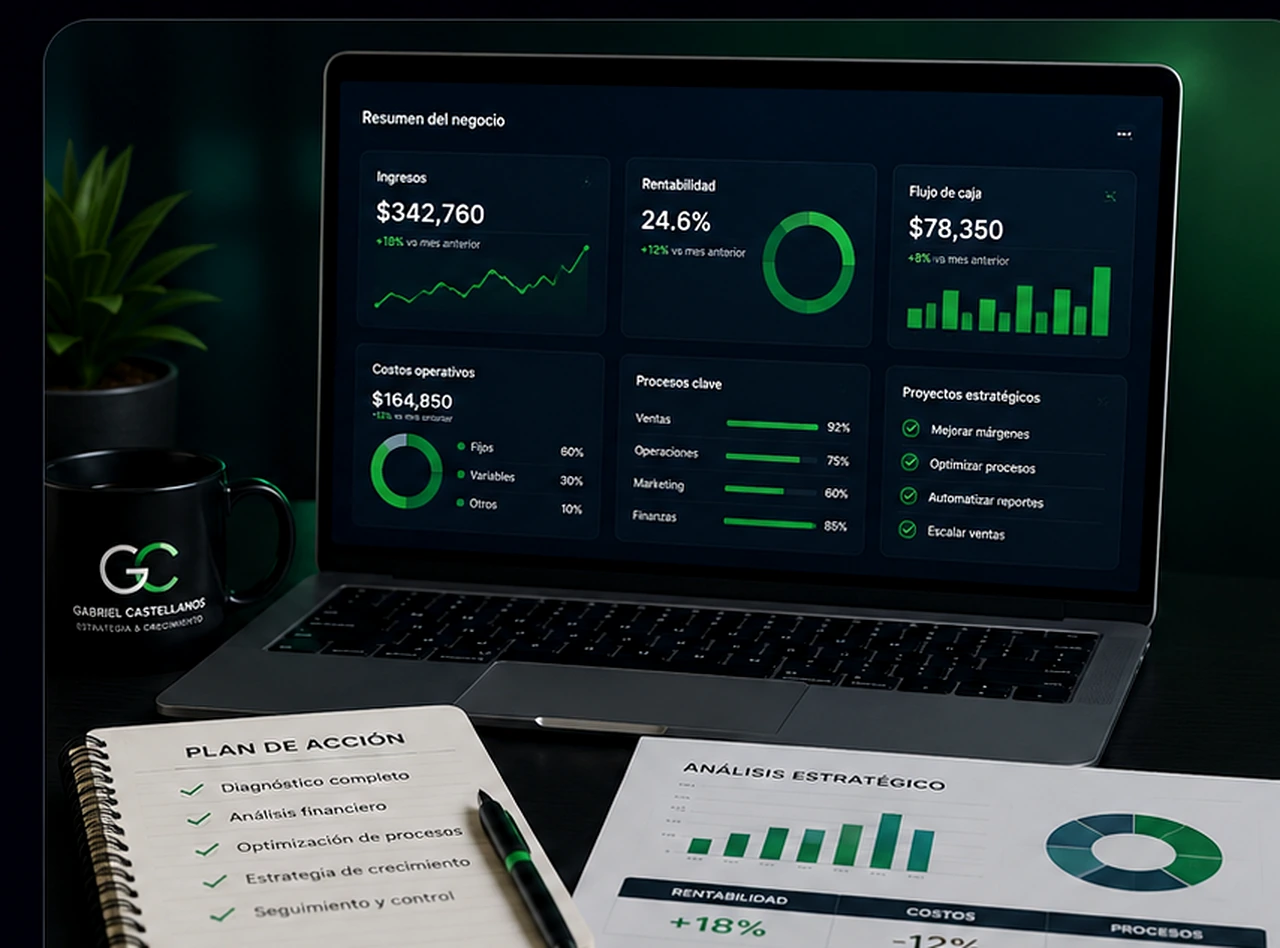
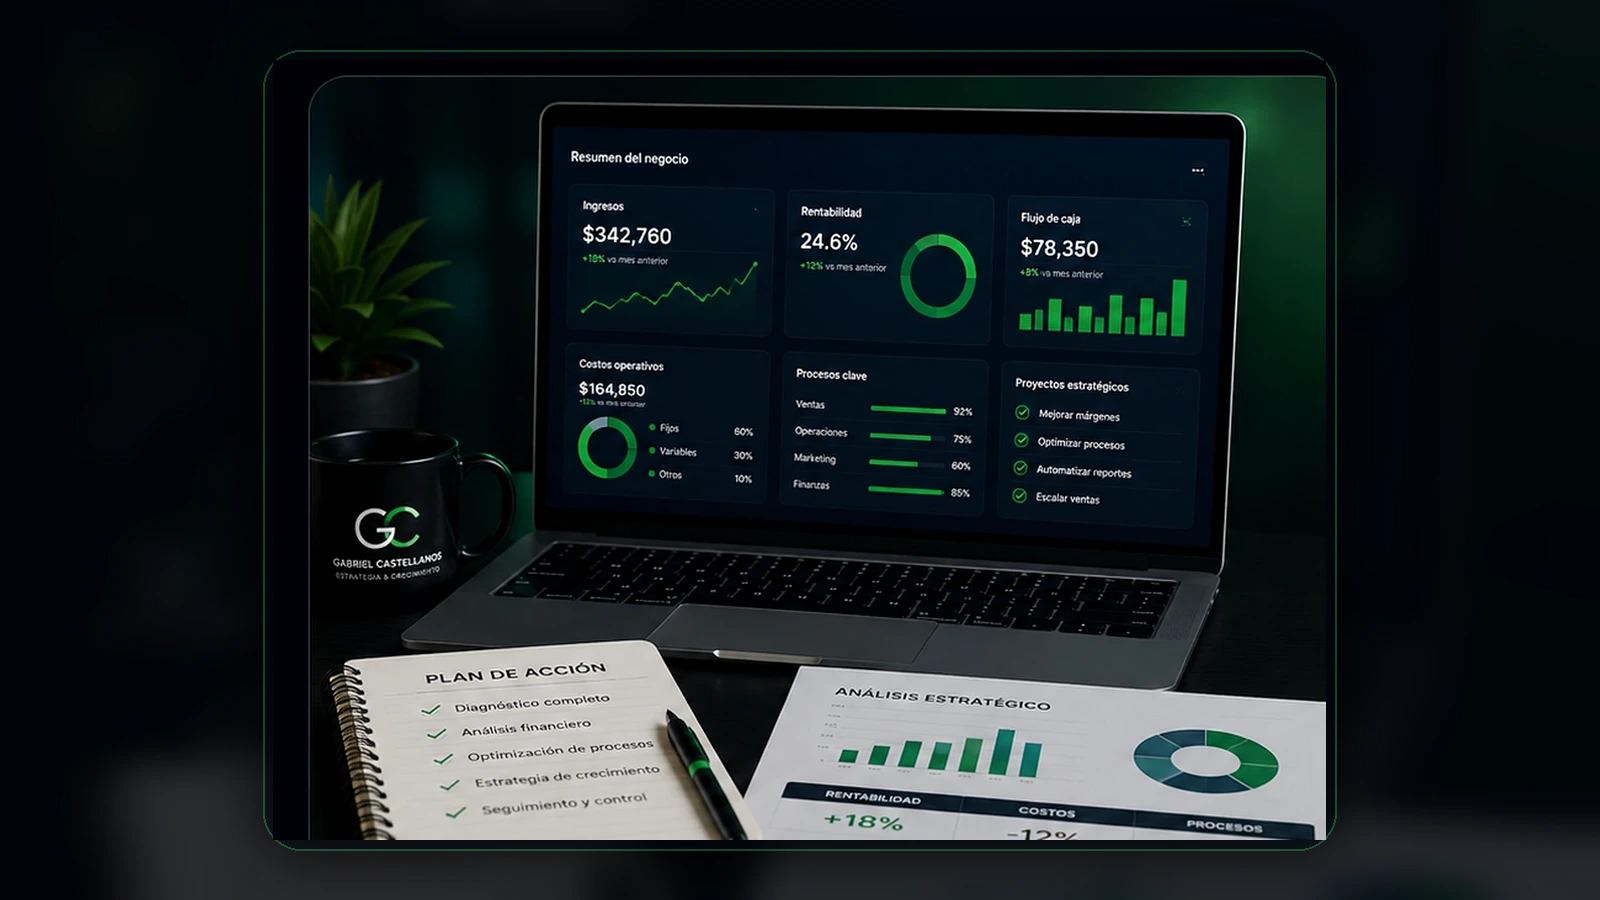
Add files via upload

diff --git a/src/styles.css b/src/styles.css
@@ -23,8 +23,8 @@ a{text-decoration:none;color:inherit}
 .navActions{display:flex;gap:12px;align-items:center}.langBtn,.menuBtn{border:1px solid var(--line);background:transparent;color:#fff;border-radius:14px;padding:12px 16px;font-weight:800;cursor:pointer}.topCta{background:var(--green);color:#fff;border-radius:14px;padding:13px 20px;font-weight:850;box-shadow:0 12px 28px rgba(22,163,74,.22)}.menuBtn{display:none;font-size:22px;padding:8px 13px}.mobileMenu{display:none;background:rgba(3,7,18,.96);border-top:1px solid var(--line);padding:16px 6vw}.mobileMenu a{display:block;padding:14px 0;color:#e5e7eb;font-weight:700}
 .sectionDark{background:radial-gradient(circle at 75% 18%,rgba(22,163,74,.18),transparent 35%),linear-gradient(120deg,#030712 0%,#07111f 48%,#0a1725 100%)}
 .hero{min-height:calc(100vh - 80px);display:flex;align-items:center;padding:78px 0 70px;overflow:hidden}.heroGrid{display:grid;grid-template-columns:minmax(0,1fr) minmax(420px,560px);gap:60px;align-items:center}.eyebrow{display:inline-flex;border:1px solid rgba(34,197,94,.35);background:rgba(22,163,74,.1);color:#bbf7d0;padding:10px 16px;border-radius:999px;font-weight:850;font-size:13px;letter-spacing:.08em;text-transform:uppercase}.hero h1{font-size:clamp(46px,6vw,82px);line-height:.98;margin:28px 0 18px;font-weight:950;letter-spacing:-.05em}.heroAlt{font-size:clamp(24px,3vw,40px);font-weight:900;color:#fff;margin:0 0 22px;line-height:1.1}.lead{font-size:18px;line-height:1.75;color:#d8dee8;max-width:640px}.buttonRow{display:flex;gap:16px;flex-wrap:wrap;margin:34px 0}.primaryBtn,.secondaryBtn{display:inline-flex;align-items:center;justify-content:center;border-radius:16px;padding:16px 24px;font-weight:900;transition:.2s}.primaryBtn{background:var(--green);color:#fff;box-shadow:0 14px 34px rgba(22,163,74,.24)}.primaryBtn:hover{transform:translateY(-2px);background:#15803d}.secondaryBtn{border:1px solid rgba(255,255,255,.25);color:#fff;background:rgba(255,255,255,.04)}.secondaryBtn:hover{transform:translateY(-2px);background:rgba(255,255,255,.09)}.proofGrid{display:grid;grid-template-columns:repeat(3,1fr);gap:16px;margin-top:24px}.proof{border:1px solid rgba(255,255,255,.14);border-radius:20px;padding:18px;background:rgba(255,255,255,.055);backdrop-filter:blur(8px);display:flex;align-items:center;gap:14px;min-height:112px}.proofIcon{width:46px;height:46px;border-radius:16px;background:rgba(34,197,94,.13);border:1px solid rgba(34,197,94,.26);color:var(--green2);display:flex;align-items:center;justify-content:center;font-size:24px;font-weight:950;flex:0 0 auto}.proof strong{display:block;color:var(--green2);font-size:24px;line-height:1}.proof span{display:block;color:#cbd5e1;font-size:13px;line-height:1.45;margin-top:7px}
-.heroVisual{position:relative;min-height:520px}.halo{position:absolute;border-radius:999px;filter:blur(14px);opacity:.55}.halo1{width:300px;height:300px;right:2%;top:0;background:rgba(22,163,74,.20)}.halo2{width:230px;height:230px;left:4%;bottom:6%;background:rgba(34,197,94,.14)}.dashboardImageShell{position:absolute;inset:18px 0 18px 0;border:1px solid rgba(255,255,255,.16);border-radius:34px;background:linear-gradient(135deg,rgba(17,24,39,.92),rgba(7,17,31,.72));box-shadow:0 34px 80px rgba(0,0,0,.38);overflow:hidden}.dashboardImageShell img{width:100%;height:100%;object-fit:cover;object-position:center;display:block;filter:saturate(1.04) contrast(1.04)}.dashboardImageShell:after{content:"";position:absolute;inset:0;background:linear-gradient(90deg,rgba(3,7,18,.52) 0%,rgba(3,7,18,.18) 38%,rgba(3,7,18,.18) 100%),radial-gradient(circle at 75% 15%,rgba(34,197,94,.18),transparent 32%);pointer-events:none}.dashboardOverlay{position:absolute;left:28px;right:28px;bottom:28px;z-index:2;border:1px solid rgba(255,255,255,.14);background:rgba(3,7,18,.78);backdrop-filter:blur(14px);border-radius:22px;padding:22px 24px;box-shadow:0 18px 42px rgba(0,0,0,.32)}.dashboardOverlay span{display:block;color:var(--green2);font-size:12px;font-weight:950;text-transform:uppercase;letter-spacing:.18em}.dashboardOverlay strong{display:block;margin-top:8px;font-size:30px;line-height:1.05;color:#fff}.dashboardOverlay small{display:block;margin-top:8px;color:#cbd5e1;font-weight:650}
+.heroVisual{position:relative;display:flex;align-items:center;justify-content:center;min-height:520px}.halo{position:absolute;border-radius:999px;filter:blur(18px);opacity:.46}.halo1{width:320px;height:320px;right:2%;top:0;background:rgba(22,163,74,.20)}.halo2{width:260px;height:260px;left:5%;bottom:4%;background:rgba(34,197,94,.13)}.dashboardImageShell{position:relative;width:100%;aspect-ratio:16/9;border:1px solid rgba(255,255,255,.16);border-radius:34px;background:linear-gradient(135deg,rgba(17,24,39,.92),rgba(7,17,31,.72));box-shadow:0 34px 80px rgba(0,0,0,.38);overflow:hidden}.dashboardImageShell img{width:100%;height:100%;object-fit:contain;object-position:center;display:block;background:#030712;filter:saturate(1.04) contrast(1.04)}
 .sectionLight{background:#f8fafc;color:var(--ink);padding:84px 0}.centerIntro{text-align:center;max-width:790px}.sectionTag{display:block;color:var(--green);font-size:13px;font-weight:950;letter-spacing:.22em;text-transform:uppercase;margin-bottom:12px}.sectionTag.gold{color:var(--gold)}.centerIntro h2,.aboutGrid h2,.methodGrid h2,.ctaGrid h2{font-size:clamp(34px,4vw,56px);line-height:1.06;margin:0 0 18px;font-weight:950;letter-spacing:-.03em}.centerIntro p,.aboutGrid p,.methodGrid p,.ctaGrid p{color:#475569;font-size:18px;line-height:1.75}.serviceGrid{display:grid;grid-template-columns:repeat(4,1fr);gap:22px;margin-top:44px}.serviceCard{background:#fff;border:1px solid #e2e8f0;border-radius:26px;padding:28px;box-shadow:0 18px 45px rgba(15,23,42,.08);min-height:265px}.serviceIcon{width:58px;height:58px;border-radius:18px;background:#dcfce7;color:var(--green);display:flex;align-items:center;justify-content:center;font-size:30px;font-weight:900;margin-bottom:22px}.serviceCard h3{font-size:21px;margin:0 0 12px}.serviceCard p{color:#475569;line-height:1.65;margin:0}.aboutSection{padding:92px 0}.aboutGrid{display:grid;grid-template-columns:430px 1fr;gap:70px;align-items:center}.aboutCard{position:relative;border:1px solid var(--line);border-radius:34px;background:rgba(255,255,255,.055);padding:24px;box-shadow:0 26px 70px rgba(0,0,0,.35)}.aboutCard img{width:100%;height:410px;object-fit:cover;object-position:center top;border-radius:26px;background:#fff}.aboutBadge{margin-top:-76px;margin-left:28px;margin-right:28px;position:relative;border:1px solid rgba(255,255,255,.16);background:rgba(7,17,31,.88);border-radius:22px;padding:20px}.aboutBadge strong{display:block;font-size:21px}.aboutBadge span{display:block;color:#cbd5e1;margin-top:4px}.aboutGrid p{color:#d8dee8}.areaList{display:flex;gap:12px;flex-wrap:wrap;margin-top:28px}.areaList span{border:1px solid rgba(34,197,94,.28);background:rgba(22,163,74,.1);border-radius:999px;padding:12px 16px;font-weight:800;color:#dcfce7}.methodGrid{display:grid;grid-template-columns:1fr 520px;gap:60px;align-items:center}.steps{display:grid;gap:16px;margin-top:30px}.step{display:flex;gap:18px;background:#fff;border:1px solid #e2e8f0;border-radius:24px;padding:22px;box-shadow:0 16px 36px rgba(15,23,42,.07)}.step>span{width:54px;height:54px;border-radius:16px;background:#07111f;color:var(--green2);display:flex;align-items:center;justify-content:center;font-weight:950;flex:0 0 auto}.step h3{margin:0 0 6px;font-size:20px}.step p{font-size:15px;margin:0;color:#475569;line-height:1.6}.methodVisual{border-radius:34px;background:linear-gradient(145deg,#07111f,#0c1b2e);border:1px solid rgba(7,17,31,.18);padding:32px;box-shadow:0 24px 64px rgba(15,23,42,.18);color:#fff}.dashTop{display:flex;gap:12px;margin-bottom:28px}.dashTop span{height:12px;border-radius:99px;background:rgba(255,255,255,.13);flex:1}.dashTop span:first-child{background:var(--green);flex:.7}.dashGrid{display:grid;grid-template-columns:1fr 180px;gap:22px}.bigGraph{height:280px;border-radius:24px;background:#fff;position:relative;overflow:hidden}.bigGraph:before{content:"";position:absolute;inset:0;background:repeating-linear-gradient(0deg,transparent,transparent 38px,rgba(15,23,42,.06) 40px),repeating-linear-gradient(90deg,transparent,transparent 48px,rgba(15,23,42,.06) 50px)}.line{position:absolute;left:40px;right:40px;bottom:70px;height:150px;background:linear-gradient(135deg,transparent 0 26%,var(--gold) 27% 32%,transparent 33% 48%,var(--gold) 49% 54%,transparent 55% 68%,var(--gold) 69% 74%,transparent 75%);clip-path:polygon(0 70%,22% 52%,42% 62%,64% 34%,82% 20%,100% 35%,100% 45%,82% 30%,64% 44%,42% 72%,22% 62%,0 80%)}.sideStats{display:grid;gap:14px}.sideStats p{margin:0;background:rgba(255,255,255,.9);border-radius:16px;color:#0f172a;padding:18px;font-size:14px}.sideStats b{display:block;color:#15803d;font-size:28px;margin-top:4px}.dashFooter{margin-top:22px;color:#cbd5e1;font-weight:800}.methodImageFrame{border-radius:34px;overflow:hidden;border:1px solid rgba(7,17,31,.18);box-shadow:0 24px 64px rgba(15,23,42,.18);background:#fff;padding:14px;aspect-ratio:16/9;display:flex;align-items:center;justify-content:center}.methodImageFrame img{display:block;width:100%;height:100%;object-fit:contain;object-position:center;border-radius:24px;background:#fff}
 .ctaSection{padding:86px 0}.ctaGrid{display:grid;grid-template-columns:1fr 420px;gap:60px;align-items:center}.ctaGrid p{color:#d8dee8}.whatsappLine{font-weight:900;color:#bbf7d0!important}.ctaBox{border:1px solid var(--line);background:rgba(255,255,255,.065);border-radius:30px;padding:30px;box-shadow:0 26px 70px rgba(0,0,0,.28)}.ctaBox h3{font-size:28px;margin:0}.ctaBox p{margin:8px 0 22px}.full{width:100%;margin-top:12px}.floatWhats{position:fixed;right:24px;bottom:24px;width:60px;height:60px;border-radius:50%;background:#22c55e;color:#fff;display:flex;align-items:center;justify-content:center;font-size:28px;font-weight:900;z-index:60;box-shadow:0 18px 44px rgba(34,197,94,.35)}footer{padding:28px;text-align:center;background:#030712;color:#94a3b8;border-top:1px solid var(--line);font-size:14px}
 @media (max-width:980px){.desktopNav,.topCta{display:none}.menuBtn{display:block}.mobileMenu{display:block}.heroGrid,.aboutGrid,.methodGrid,.ctaGrid{grid-template-columns:1fr}.hero{padding:48px 0}.heroVisual{min-height:520px}.proofGrid,.serviceGrid{grid-template-columns:1fr 1fr}.aboutGrid{gap:36px}.methodGrid{gap:34px}}
-@media (max-width:640px){.logoLink img{height:42px}.hero h1{font-size:42px}.heroAlt{font-size:25px}.proofGrid,.serviceGrid{grid-template-columns:1fr}.buttonRow{flex-direction:column}.heroVisual{min-height:430px}.dashboardImageShell{inset:12px 0;border-radius:26px}.dashboardOverlay{left:18px;right:18px;bottom:18px;padding:18px}.dashboardOverlay strong{font-size:24px}.dashGrid{grid-template-columns:1fr}.sideStats{grid-template-columns:1fr 1fr 1fr}.sideStats p{padding:12px;font-size:12px}.sideStats b{font-size:20px}.aboutCard img{height:340px}.container{width:min(92vw,1180px)}}
+@media (max-width:640px){.logoLink img{height:42px}.hero h1{font-size:42px}.heroAlt{font-size:25px}.proofGrid,.serviceGrid{grid-template-columns:1fr}.buttonRow{flex-direction:column}.heroVisual{min-height:430px}.dashboardImageShell{border-radius:26px}.dashGrid{grid-template-columns:1fr}.sideStats{grid-template-columns:1fr 1fr 1fr}.sideStats p{padding:12px;font-size:12px}.sideStats b{font-size:20px}.aboutCard img{height:340px}.container{width:min(92vw,1180px)}}

diff --git a/src/main.jsx b/src/main.jsx
@@ -117,11 +117,6 @@ function HeroVisual() {
       <div className="halo halo2" />
       <div className="dashboardImageShell">
         <img src="/hero-corporativo-dashboard.webp" alt="Dashboard corporativo con análisis financiero y plan de acción" />
-        <div className="dashboardOverlay">
-          <span>Diagnóstico estratégico</span>
-          <strong>Claridad para decidir</strong>
-          <small>Estrategia · Procesos · Rentabilidad</small>
-        </div>
       </div>
     </div>
   );
